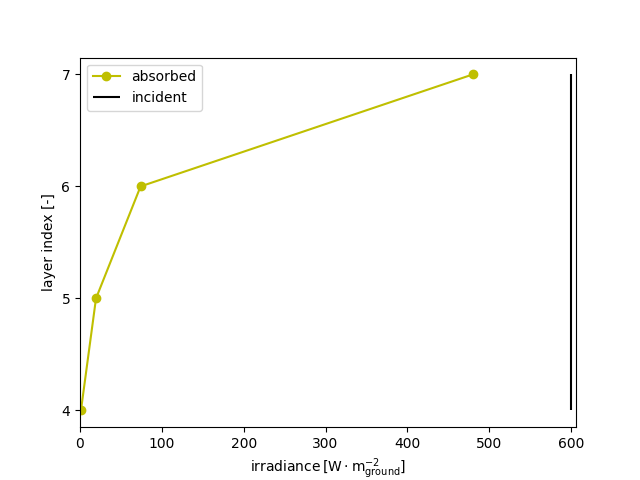
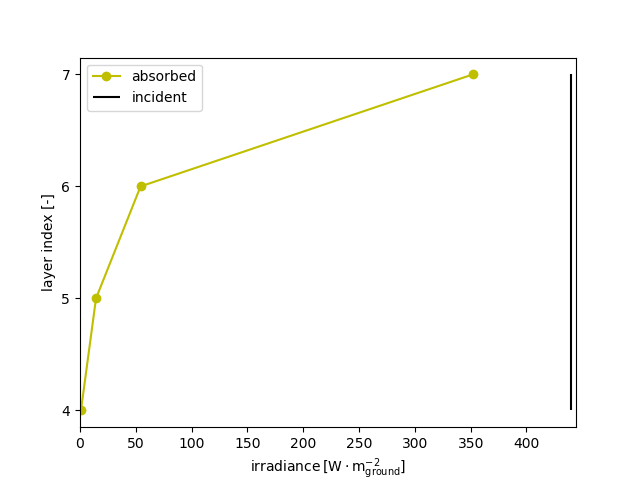
updated examples after formulas correction

diff --git a/examples/bigleaf_sunlit_shaded/sim.py b/examples/bigleaf_sunlit_shaded/sim.py
@@ -3,9 +3,10 @@ from math import pi
 from crop_irradiance.uniform_crops import inputs, params, shoot
 from matplotlib import pyplot as plt
 
+leaf_layers = {0: 6.43}
 
-sim_inputs = inputs.SunlitShadedInputs(leaf_layers={0: 6.43}, incident_direct_irradiance=500,
-                                       incident_diffuse_irradiance=100, solar_inclination=pi / 3)
+sim_inputs = inputs.SunlitShadedInputs(leaf_layers={0: 6.43}, incident_direct_irradiance=360,
+                                       incident_diffuse_irradiance=80, solar_inclination=pi / 3)
 
 sim_params = params.SunlitShadedParams(leaf_reflectance=0.08, leaf_transmittance=0.07,
                                        leaves_to_sun_average_projection=0.5, sky_sectors_number=3, sky_type='soc',
@@ -19,13 +20,14 @@ layer_index, absorbed_sunlit_irradiance, absorbed_shaded_irradiance = zip(
       for index, layer in canopy.items()])
 
 _, ax = plt.subplots()
-ax.plot(sim_inputs.incident_direct_irradiance, 0, 'yO', label='incident sunlit')
-ax.plot(sim_inputs.incident_diffuse_irradiance, 0, 'rO', label='incident sunlit')
-ax.plot(absorbed_sunlit_irradiance, layer_index, 'yo', label='absorbed sunlit')
+ax.vlines(sim_inputs.incident_direct_irradiance,
+          ymin=-0.02, ymax=0.02, label='incident sunlit', color='y')
+ax.vlines(sim_inputs.incident_diffuse_irradiance,
+          ymin=-0.02, ymax=0.02, label='incident shaded', color='r')
+ax.plot(absorbed_sunlit_irradiance, layer_index, 'yo-', label='absorbed sunlit')
 ax.plot(absorbed_shaded_irradiance, layer_index, 'ro-', label='absorbed shaded')
-ax.set(xlabel='$\mathregular{irradiance\/[W \cdot m^{-2}_{ground}]}$',
-       xlim=(0, 1.01 * max(sim_inputs.incident_direct_irradiance, sim_inputs.incident_diffuse_irradiance)),
+ax.set(xlabel=r'$\mathregular{irradiance\/[W \cdot m^{-2}_{ground}]}$',
        ylabel='layer index [-]', yticks=layer_index)
 ax.legend()
-plt.savefig(f'absorbed_irradiance.png')
+plt.savefig('absorbed_irradiance.png')
 plt.close()

diff --git a/examples/layered_sunlit_shaded/sim.py b/examples/layered_sunlit_shaded/sim.py
@@ -8,8 +8,8 @@ leaf_layers = {4: 0.09,
                6: 1.92,
                7: 3.22}
 
-sim_inputs = inputs.SunlitShadedInputs(leaf_layers=leaf_layers, incident_direct_irradiance=500,
-                                       incident_diffuse_irradiance=100, solar_inclination=pi / 3)
+sim_inputs = inputs.SunlitShadedInputs(leaf_layers=leaf_layers, incident_direct_irradiance=360,
+                                       incident_diffuse_irradiance=80, solar_inclination=pi / 3)
 
 sim_params = params.SunlitShadedParams(leaf_reflectance=0.08, leaf_transmittance=0.07,
                                        leaves_to_sun_average_projection=0.5, sky_sectors_number=3, sky_type='soc',
@@ -33,5 +33,5 @@ ax.set(xlabel='$\mathregular{irradiance\/[W \cdot m^{-2}_{ground}]}$',
        xlim=(0, 1.01 * max(sim_inputs.incident_direct_irradiance, sim_inputs.incident_diffuse_irradiance)),
        ylabel='layer index [-]', yticks=layer_index)
 ax.legend()
-plt.savefig(f'absorbed_irradiance.png')
+plt.savefig('absorbed_irradiance.png')
 plt.close()

diff --git a/examples/bigleaf_lumped/sim.py b/examples/bigleaf_lumped/sim.py
@@ -1,7 +1,7 @@
 from crop_irradiance.uniform_crops import inputs, params, shoot
 from matplotlib import pyplot as plt
 
-sim_inputs = inputs.LumpedInputs(leaf_layers={0: 6.43}, incident_irradiance=600)
+sim_inputs = inputs.LumpedInputs(leaf_layers={0: 6.43}, incident_irradiance=440)
 sim_params = params.LumpedParams(extinction_coefficient=0.5)
 canopy = shoot.Shoot(leaves_category='lumped', inputs=sim_inputs, params=sim_params)
 

diff --git a/examples/layered_lumped/sim.py b/examples/layered_lumped/sim.py
@@ -8,7 +8,7 @@ leaf_layers = {4: 0.09,
                6: 1.92,
                7: 3.22}
 
-sim_inputs = inputs.LumpedInputs(leaf_layers=leaf_layers, incident_irradiance=600)
+sim_inputs = inputs.LumpedInputs(leaf_layers=leaf_layers, incident_irradiance=440)
 sim_params = params.LumpedParams(extinction_coefficient=0.5)
 canopy = shoot.Shoot(leaves_category='lumped', inputs=sim_inputs, params=sim_params)
 
